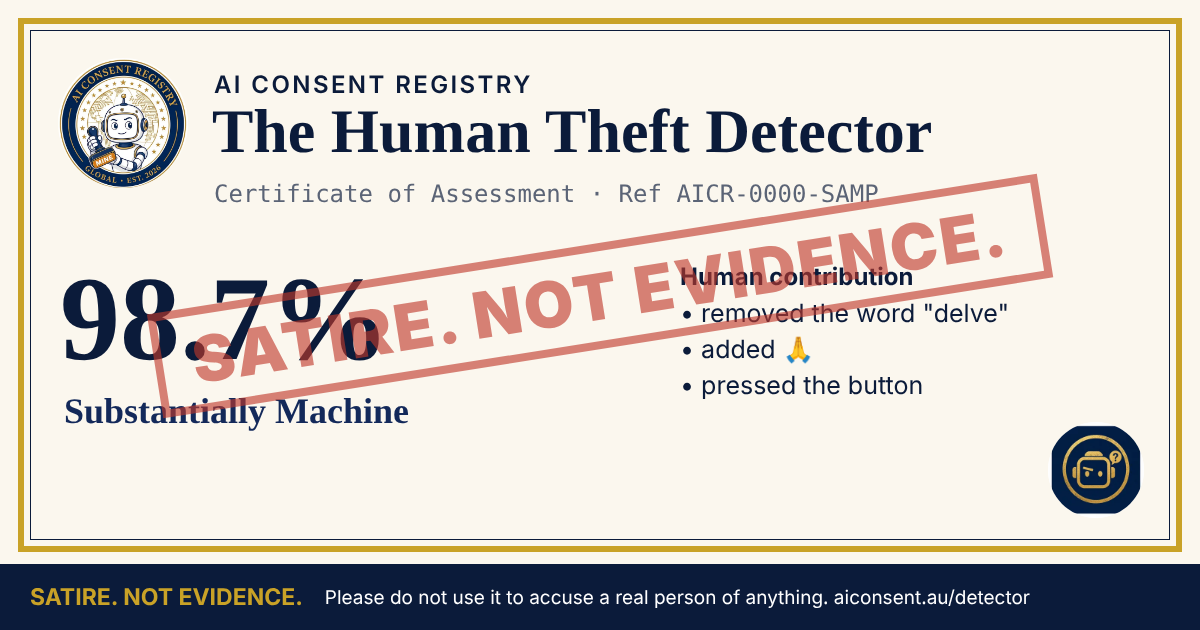
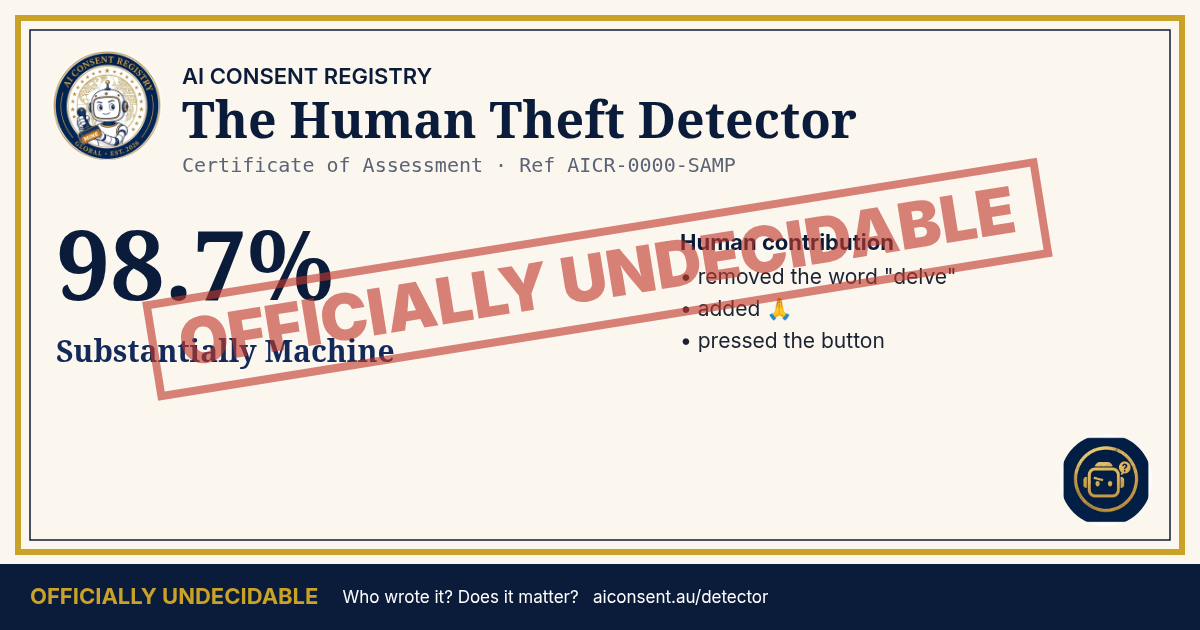
Detector OG image: Officially Undecidable stamp, reproducible via tools/make-og-detector.sh

Changed region(s): [[0.0, 0.0, 0.9867, 0.9048], [0.0308, 0.9349, 0.8633, 0.9651], [0.5858, 0.6032, 0.7708, 0.6333]]

diff --git a/tools/og-detector.html b/tools/og-detector.html
@@ -1,0 +1,35 @@
+<!doctype html>
+<!-- og-detector.html | Source for public/img/og-detector.png (1200x630). Render with: sh tools/make-og-detector.sh -->
+<html><head><meta charset="utf-8"><style>html,body{margin:0;background:#fbf7ee}canvas{display:block}</style></head>
+<body><canvas id="c" width="1200" height="630"></canvas>
+<script>
+const STAMP = 'Officially Undecidable';
+const W = 1200, H = 630, x = document.getElementById('c').getContext('2d');
+const serif = 'Georgia, "Noto Serif", "DejaVu Serif", serif', mono = '"DejaVu Sans Mono", monospace', sans = 'Inter, "Noto Sans", sans-serif';
+const load = (s) => new Promise((r) => { const i = new Image(); i.onload = () => r(i); i.onerror = () => r(null); i.src = s; });
+const circle = (img, cx, cy, r) => { if (!img) return; x.save(); x.beginPath(); x.arc(cx, cy, r, 0, 7); x.clip(); x.drawImage(img, cx - r, cy - r, r * 2, r * 2); x.restore(); };
+Promise.all([load('../public/img/seal.webp'), load('../public/img/robot.webp'), document.fonts.ready]).then(([seal, bot]) => {
+  x.fillStyle = '#fbf7ee'; x.fillRect(0, 0, W, H);
+  x.strokeStyle = '#c9a227'; x.lineWidth = 6; x.strokeRect(18, 18, W - 36, H - 96);
+  x.strokeStyle = '#0b1b3a'; x.lineWidth = 1.5; x.strokeRect(30, 30, W - 60, H - 120);
+  circle(seal, 107, 105, 55);
+  x.fillStyle = '#0b1b3a'; x.font = `600 22px ${sans}`; x.fillText('AI CONSENT REGISTRY', 182, 84);
+  x.font = `bold 50px ${serif}`; x.fillText('The Human Theft Detector', 182, 138);
+  x.font = `20px ${mono}`; x.fillStyle = '#5b6476'; x.fillText('Certificate of Assessment · Ref AICR-0000-SAMP', 182, 172);
+  x.fillStyle = '#0b1b3a'; x.font = `bold 96px ${serif}`; x.fillText('98.7%', 56, 300);
+  x.font = `bold 30px ${serif}`; x.fillStyle = '#13295a'; x.fillText('Substantially Machine', 56, 362);
+  x.fillStyle = '#0b1b3a'; x.font = `bold 22px ${sans}`; x.fillText('Human contribution', 680, 250);
+  x.font = `21px ${sans}`; x.fillStyle = '#1b2233';
+  ['• removed the word "delve"', '• added 🙏', '• pressed the button'].forEach((l, i) => x.fillText(l, 680, 284 + i * 32));
+  circle(bot, W - 94, H - 150, 46);
+  x.save(); x.translate(W / 2, H / 2 - 20); x.rotate(-0.16);
+  x.globalAlpha = 0.62; x.strokeStyle = '#c0392b'; x.fillStyle = '#c0392b'; x.lineWidth = 8;
+  x.font = `900 64px ${sans}`; const st = STAMP.toUpperCase(), sw = x.measureText(st).width;
+  x.strokeRect(-sw / 2 - 26, -62, sw + 52, 92); x.fillText(st, -sw / 2, 4); x.restore();
+  x.fillStyle = '#0b1b3a'; x.fillRect(0, H - 66, W, 66);
+  x.fillStyle = '#c9a227'; x.font = `bold 22px ${sans}`; x.fillText(STAMP.toUpperCase(), 30, H - 26);
+  const sx = 30 + x.measureText(STAMP.toUpperCase()).width + 24;
+  x.fillStyle = '#ffffff'; x.font = `17px ${sans}`; x.fillText('Who wrote it? Does it matter?   aiconsent.au/detector', sx, H - 27);
+  document.title = 'done';
+});
+</script></body></html>
